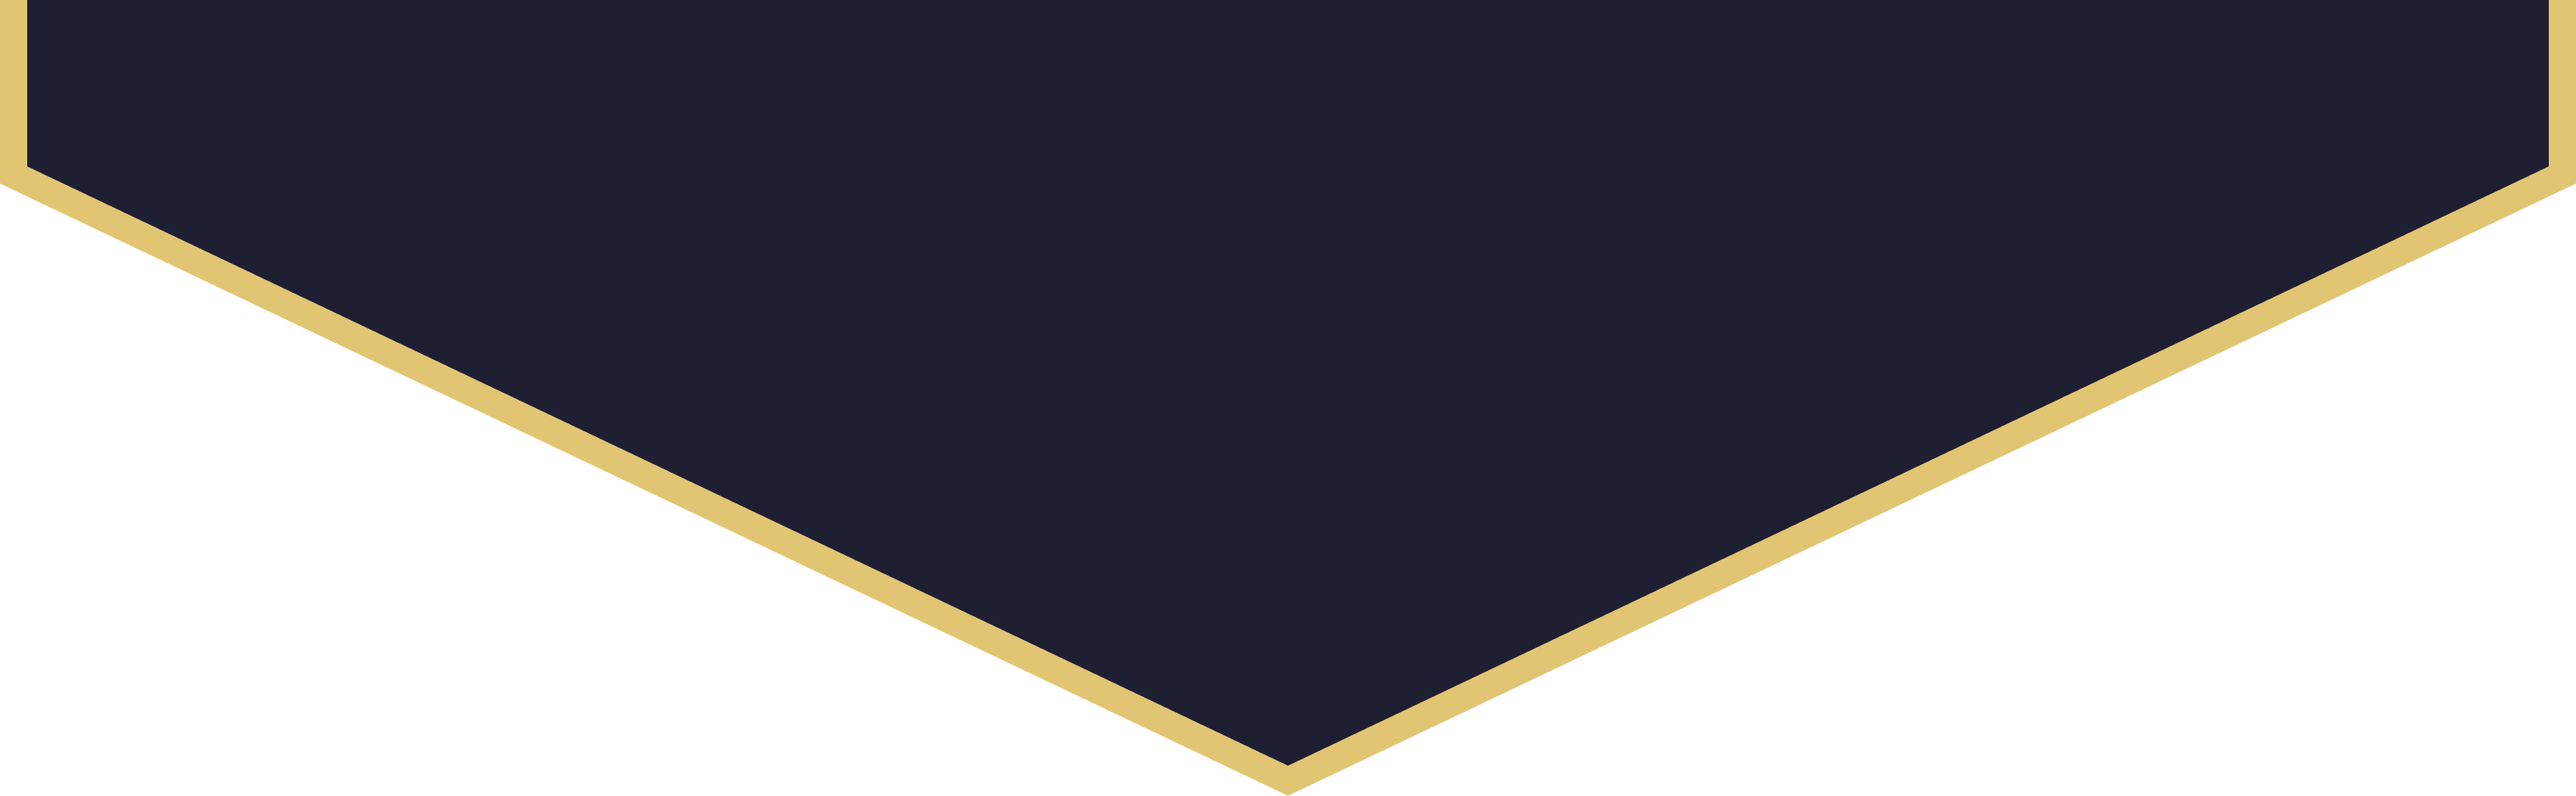
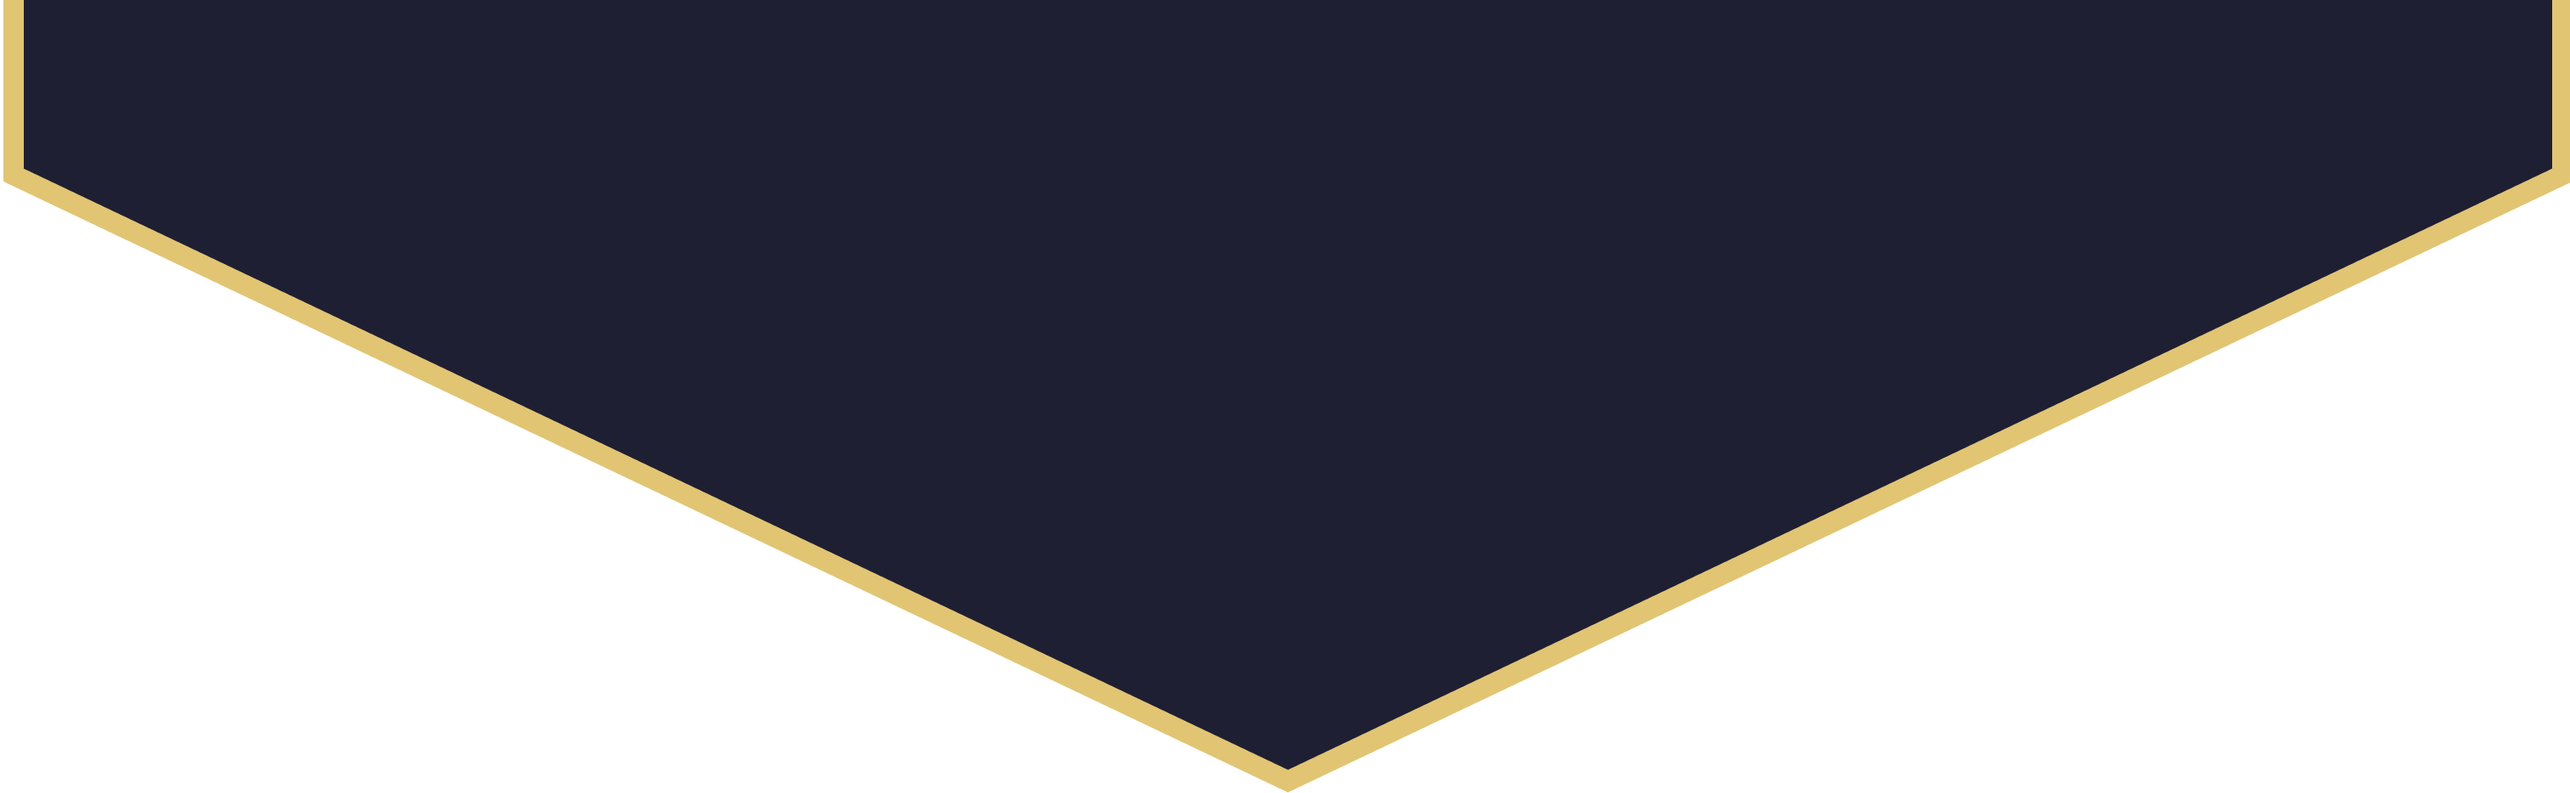
UI 개선

diff --git a/public/stylesheets/style.css b/public/stylesheets/style.css
@@ -102,7 +102,7 @@ body::-webkit-scrollbar {
     letter-spacing: 0.15dvw;
 
     color: #cebb82;
-    background-color: #2e2e46;
+    background-color: #2a2a48;
     border: 0.3dvh solid #dac378;
     box-shadow: 0px 0px 3px 3px #00000044;
 
@@ -114,7 +114,7 @@ body::-webkit-scrollbar {
     color: #eddaa1;
     border: 0.3dvh solid #f7e5ab;
     box-shadow: 0px 0px 4px 4px #ffffff08;
-    background-color: #32324c;
+    background-color: #2d2d4a;
 }
 
 .btnActive {
@@ -244,17 +244,15 @@ a:visited {
     z-index: 1;
     position: absolute;
     top: 0;
-    left: 38dvw;
-    width: 24dvw;
-    height: 14dvh;
+    left: 35dvw;
+    width: 30dvw;
+    height: 13dvh;
 
     display: flex;
     flex-direction: column;
     align-items: center;
     justify-content: space-evenly;
 
-    font-size: 3vh;
-    color: #f4dc92;
     background-image: url("/images/game/pentagon.png");
     object-fit: cover;
 
@@ -263,11 +261,18 @@ a:visited {
     background-position: center;
 }
 
+#timer {
+    letter-spacing: 0.15dvw;
+    text-align: center;
+    font-size: 3.6dvh;
+    color: #f4dc92;
+}
+
 #timerAccentBar {
     width: 6%;
     height: 0px;
-    border: 1px solid #e1c573;
-    margin-bottom: 2vh;
+    border: 0.1vh solid #e1c573;
+    margin-bottom: 2.5vh;
 }
 #stageInfo {
     width: 55%;
@@ -316,7 +321,7 @@ a:visited {
 #inventoryWrapper {
     z-index: 1;
     position: absolute;
-    top: 28dvh;
+    bottom: 24dvh;
     left: 0dvw;
     padding: 0.5dvh;
 
@@ -337,8 +342,18 @@ a:visited {
 
 #moneyWrapper {
     height: 3dvw;
+    padding: 0% 5%;
+    display: flex;
+    flex-direction: row;
+    align-items: center;
+    justify-content: space-between;
     border: 1px solid #807253;
     background-color: #232337;
+}
+
+#money {
+    width: 100%;
+    text-align: end;
 }
 
 .cell:hover {
@@ -348,11 +363,10 @@ a:visited {
 #rightWrapper {
     z-index: 1;
     position: absolute;
-    top: 5dvh;
+    bottom: 24dvh;
     right: 0px;
-    width: 8%;
-    min-width: 72px;
-    height: 73dvh;
+    width: 7.6dvw;
+    height: 42dvh;
     display: flex;
     flex-direction: column;
     align-items: center;
@@ -361,12 +375,12 @@ a:visited {
 }
 
 #playersHp {
-    width: 80%;
-    height: 50%;
+    width: 100%;
+    height: 100%;
 
     display: flex;
     flex-direction: column;
-    justify-content: space-evenly;
+    justify-content: space-between;
     align-items: center;
 
     margin-right: 20%;
@@ -374,14 +388,13 @@ a:visited {
 
 .player {
     width: 100%;
-    height: 30%;
+    height: 46%;
     display: flex;
     flex-direction: column;
-    justify-content: space-evenly;
+    justify-content: space-around;
     align-items: center;
-    background-color: #212121;
+    background-color: #1f1f33;
     border: 2px solid #e1c573;
-    border-radius: 100%;
 }
 
 #synergies {
@@ -432,6 +445,8 @@ a:visited {
     display: flex;
     flex-direction: column;
     align-items: center;
+
+    /* border: 0.2dvh solid #e1c573; */
 }
 
 #streak {

diff --git a/public/javascripts/modules/Socket.js b/public/javascripts/modules/Socket.js
@@ -48,7 +48,7 @@ export default class Socket {
                     if (p) p._hp = data.hp;
                 }
                 case "timeUpdate": {
-                    Game._time = data.time;
+                    if (data.time) Game._time = data.time;
                     break;
                 }
                 case "stageUpdate": {
@@ -59,7 +59,7 @@ export default class Socket {
                 }
                 case "stateUpdate": {
                     Game._state = data.state;
-                    Game._time = data.time;
+                    if (data.time) Game._time = data.time;
                     break;
                 }
                 case "boardUpdate": {

diff --git a/README.md b/README.md
@@ -28,14 +28,18 @@ Nodejs, Express, Three.js 사용
     -> 내일, client에서 같은 uid의 여러 Unit을 다루면서 서버와 클라이언트가 uid로 소통할 수 있게 개선해볼 예정.  
     배운 점: 많은 코드에 손이 가는, 통신 구조 변경과 같은 수정 사항은 그 여파를 고려해보고, 이 시스템을 처음 설계한 의도와 걸맞는지 판단한 후에 적용하기
 
-## 이후 적절한 곳에 uid 사용하여 개선함
+이후 적절한 곳에 uid 사용하여 개선함
 
 ## ~ commit 참고 ~
 
 ## 2.11
 
+DONE
+
 -   아마존 배포.
--   TODO
+
+TODO
+
 -   기획, mesh, UI, sound
 
 ## ~ commit 참고 ~
@@ -78,3 +82,8 @@ DONE
 TODO
 
 -   ingame UI 설계 확정 및 구현
+
+3.1
+DONE
+
+-   ingame time, inventory UI 구현
